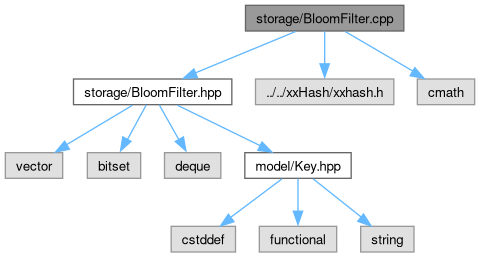
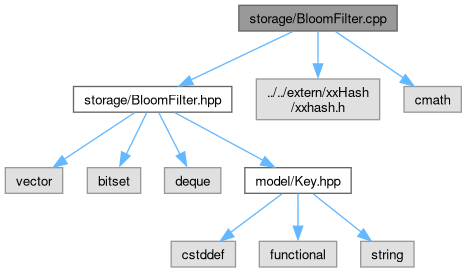
deploy: bfabd466834a197d7491194cd8b0689181829c83

diff --git a/BloomFilter_8cpp.html b/BloomFilter_8cpp.html
@@ -95,7 +95,7 @@ $(document).ready(function(){initNavTree('BloomFilter_8cpp.html',''); initResiza
 </div><!--header-->
 <div class="contents">
 <div class="textblock"><code>#include &quot;<a class="el" href="BloomFilter_8hpp_source.html">storage/BloomFilter.hpp</a>&quot;</code><br />
-<code>#include &quot;../../xxHash/xxhash.h&quot;</code><br />
+<code>#include &quot;../../extern/xxHash/xxhash.h&quot;</code><br />
 <code>#include &lt;cmath&gt;</code><br />
 </div><div class="textblock"><div id="dynsection-0" onclick="return toggleVisibility(this)" class="dynheader closed" style="cursor:pointer;">
   <img id="dynsection-0-trigger" src="closed.png" alt="+"/> Include dependency graph for BloomFilter.cpp:</div>
@@ -104,27 +104,27 @@ $(document).ready(function(){initNavTree('BloomFilter_8cpp.html',''); initResiza
 <div id="dynsection-0-content" class="dyncontent" style="display:none;">
 <div class="center"><img src="BloomFilter_8cpp__incl.png" border="0" usemap="#astorage_2BloomFilter_8cpp" alt=""/></div>
 <map name="astorage_2BloomFilter_8cpp" id="astorage_2BloomFilter_8cpp">
-<area shape="rect" title=" " alt="" coords="246,5,404,31"/>
-<area shape="rect" href="BloomFilter_8hpp.html" title=" " alt="" coords="74,79,232,105"/>
-<area shape="poly" title=" " alt="" coords="297,34,197,75,194,70,294,29"/>
-<area shape="rect" title=" " alt="" coords="256,79,394,105"/>
-<area shape="poly" title=" " alt="" coords="327,31,327,64,322,64,322,31"/>
-<area shape="rect" title=" " alt="" coords="417,79,475,105"/>
-<area shape="poly" title=" " alt="" coords="347,29,414,69,411,73,344,34"/>
-<area shape="rect" title=" " alt="" coords="5,153,63,178"/>
-<area shape="poly" title=" " alt="" coords="134,107,68,147,65,142,131,103"/>
-<area shape="rect" title=" " alt="" coords="87,153,141,178"/>
-<area shape="poly" title=" " alt="" coords="149,106,130,141,125,138,144,104"/>
-<area shape="rect" title=" " alt="" coords="165,153,221,178"/>
-<area shape="poly" title=" " alt="" coords="162,104,181,138,176,141,157,106"/>
-<area shape="rect" href="Key_8hpp.html" title=" " alt="" coords="245,153,351,178"/>
-<area shape="poly" title=" " alt="" coords="178,103,262,143,259,148,176,108"/>
-<area shape="rect" title=" " alt="" coords="171,226,236,252"/>
-<area shape="poly" title=" " alt="" coords="284,181,232,219,229,215,280,177"/>
-<area shape="rect" title=" " alt="" coords="259,226,337,252"/>
-<area shape="poly" title=" " alt="" coords="301,179,301,211,295,211,295,179"/>
-<area shape="rect" title=" " alt="" coords="361,226,414,252"/>
-<area shape="poly" title=" " alt="" coords="315,177,363,215,360,219,311,181"/>
+<area shape="rect" title=" " alt="" coords="239,5,397,31"/>
+<area shape="rect" href="BloomFilter_8hpp.html" title=" " alt="" coords="74,87,232,112"/>
+<area shape="poly" title=" " alt="" coords="294,34,192,82,190,77,291,29"/>
+<area shape="rect" title=" " alt="" coords="256,79,380,120"/>
+<area shape="poly" title=" " alt="" coords="321,31,321,64,315,64,315,31"/>
+<area shape="rect" title=" " alt="" coords="404,87,461,112"/>
+<area shape="poly" title=" " alt="" coords="337,29,405,76,402,80,334,34"/>
+<area shape="rect" title=" " alt="" coords="5,168,63,193"/>
+<area shape="poly" title=" " alt="" coords="136,115,66,161,63,157,133,110"/>
+<area shape="rect" title=" " alt="" coords="87,168,141,193"/>
+<area shape="poly" title=" " alt="" coords="149,114,129,155,124,153,144,111"/>
+<area shape="rect" title=" " alt="" coords="165,168,221,193"/>
+<area shape="poly" title=" " alt="" coords="161,111,182,153,178,156,156,114"/>
+<area shape="rect" href="Key_8hpp.html" title=" " alt="" coords="245,168,351,193"/>
+<area shape="poly" title=" " alt="" coords="176,110,264,158,262,163,173,115"/>
+<area shape="rect" title=" " alt="" coords="171,241,236,267"/>
+<area shape="poly" title=" " alt="" coords="284,196,232,234,229,230,280,192"/>
+<area shape="rect" title=" " alt="" coords="259,241,337,267"/>
+<area shape="poly" title=" " alt="" coords="301,194,301,226,295,226,295,194"/>
+<area shape="rect" title=" " alt="" coords="361,241,414,267"/>
+<area shape="poly" title=" " alt="" coords="315,192,363,230,360,234,311,196"/>
 </map>
 </div>
 </div><table class="memberdecls">
